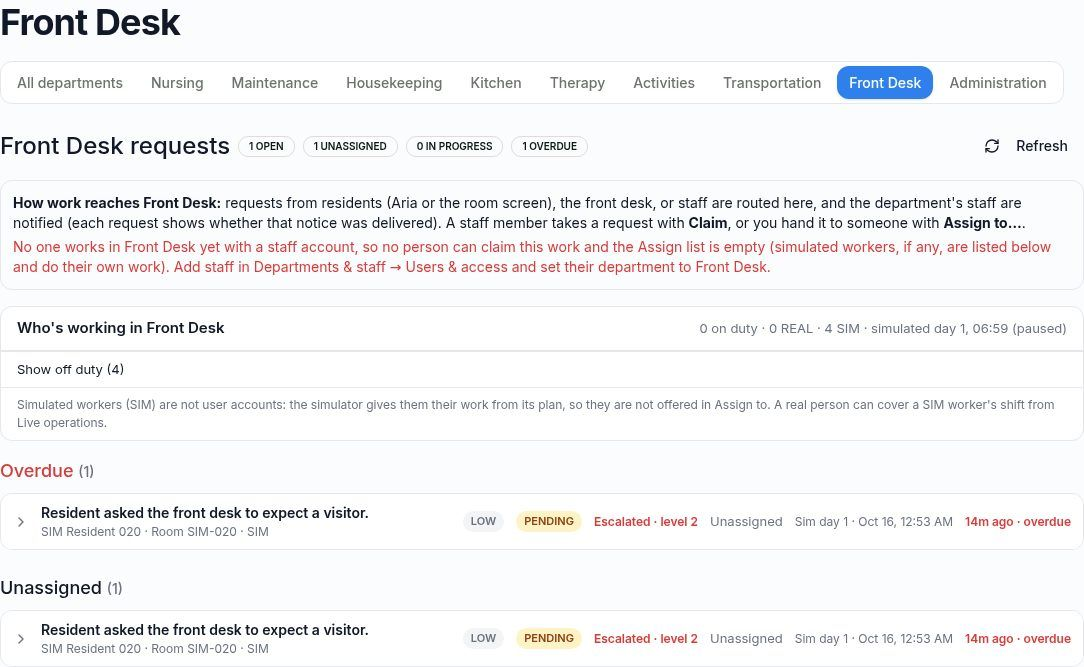
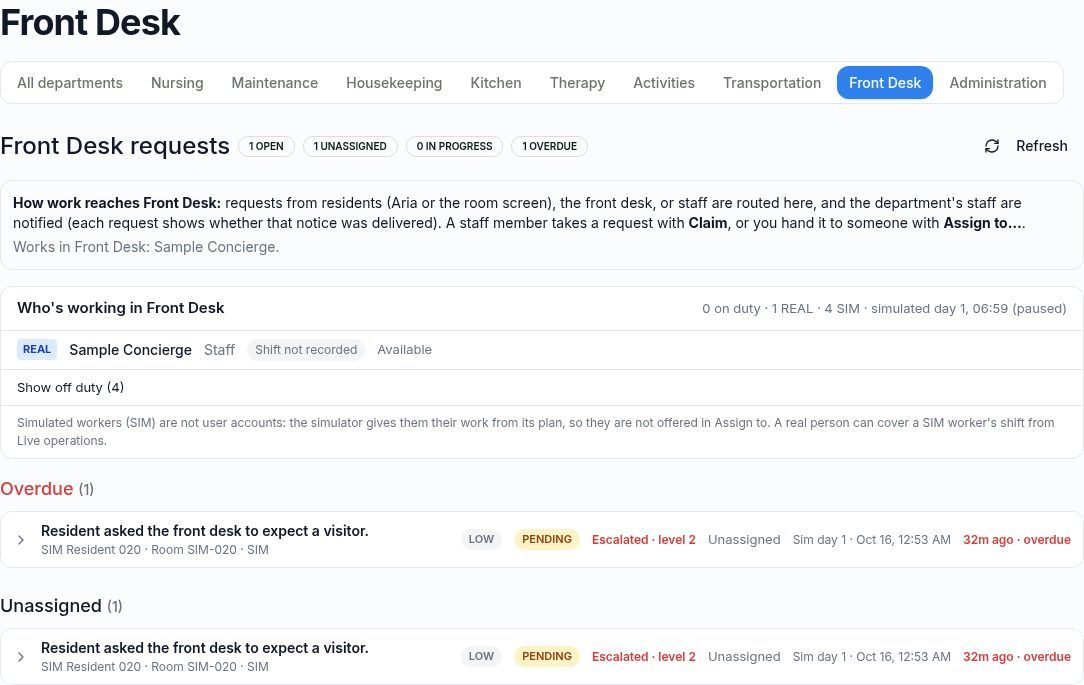
#162 public site: owner 2026-10-16 directions — helper framing, room life, community help
Reconciles #162 owner comments c6209371153 (video) and c6209415088 (Alexa+
benchmark, building-native differentiation) into the same task:

- Home hero: "Aria — your personal helper. A room that hears you and can
  help you." with the existing resident film featured, labelled
  "Illustrative film · generated scenes, not product footage" (no new film
  generated; artificial motion is never presented as product proof).
- Home order: everyday room life (voice, lights, TV, climate, blinds, low
  vision) -> community help (staff help, one-press, departments) -> platform
  proof (request -> department -> owner -> update -> receipt) -> staff
  screens -> receipts -> honest status. Every tile shows its registry status;
  nothing is labelled to match a consumer-assistant benchmark.
- Department screens recaptured with one sample staff account per
  department (scratch DB), so they show real roster rows instead of the
  "no one works here" warning; uniform 4:3 journey frames; residents page
  staff section shows two current screens.
- Test: owner message order and tile statuses (landingPage.test.jsx).

diff --git a/frontend/src/pages/Landing.jsx b/frontend/src/pages/Landing.jsx
@@ -1,20 +1,25 @@
 import React from "react";
 import { Link } from "react-router-dom";
 import { CAPABILITIES_BY_ID } from "../lib/capabilities";
-import { SCREENS } from "../lib/capabilities/visuals";
 import CapabilityPanel from "../components/capabilities/CapabilityPanel";
 import useCapabilityPanel from "../components/capabilities/useCapabilityPanel";
-import ExperienceVideoLibrary from "../components/landing/ExperienceVideoLibrary";
+import { ExperienceVideo } from "../components/landing/ExperienceVideoLibrary";
+import { EXPERIENCE_VIDEOS } from "../lib/experienceVideos";
+import CapabilityTiles from "../components/public/CapabilityTiles";
 import LandingStatus from "../components/landing/LandingStatus";
 import LandingPaths from "../components/landing/LandingPaths";
 import PublicPage, { PublicSection } from "../components/public/PublicPage";
-import PublicVisual from "../components/public/PublicVisual";
 import RequestJourney from "../components/public/RequestJourney";
 import StaffShowcase from "../components/public/StaffShowcase";
 
-// Public home (#162). In order: what CAOSCare is, the request journey, what
-// staff see, why receipts matter, what works today, where to go next. Every
-// picture says whose data it is; every status comes from lib/capabilities/status.js.
+// Public home (#162; owner 2026-10-16 c6209415088). In order: Aria, your personal
+// helper; everyday room life; community help; the platform proof (request ->
+// department -> owner -> update -> receipt); what staff see; why receipts; what
+// works today. Convenience first, then the leap: Aria is connected to the
+// community's operating system. Every status comes from lib/capabilities/status.js,
+// never from a consumer-assistant benchmark.
+const EVERYDAY = ["voice", "lighting", "tv", "climate", "blinds", "low_vision"];
+const COMMUNITY = ["help", "one_press", "nursing", "maintenance", "housekeeping", "dining", "transportation", "activities", "front_desk"];
 const PROOF = [
   ["Who asked, in their words", "The request keeps the resident's own words, room and time."],
   ["Who owns it, and since when", "Each claim, start and finish is stamped with the person and the minute."],
@@ -30,14 +35,13 @@ export default function Landing() {
           <header className="px-4 pb-16 pt-12 sm:px-6 lg:px-8 lg:pt-16">
             <div className="mx-auto grid max-w-7xl grid-cols-1 items-center gap-10 lg:grid-cols-12">
               <div className="min-w-0 lg:col-span-5">
-                <p className="text-[13px] font-semibold uppercase tracking-[0.14em] text-[#2F80ED]">Resident support and care coordination</p>
-                <h1 className="mt-3 text-[34px] font-bold leading-[1.1] tracking-tight sm:text-[46px]">
-                  Residents talk to Aria. Staff see the work. Every step is on record.
-                </h1>
+                <p className="text-[13px] font-semibold uppercase tracking-[0.14em] text-[#2F80ED]">CAOSCare for senior living</p>
+                <h1 className="mt-3 text-[38px] font-bold leading-[1.08] tracking-tight sm:text-[50px]">Aria — your personal helper.</h1>
+                <p className="mt-4 text-[22px] font-medium leading-snug text-[#111827]">A room that hears you and can help you.</p>
                 <p className="mt-5 text-[18px] leading-relaxed text-[#374151]">
-                  CAOSCare is the operating system for a senior-living community. A resident says "Hey Aria" from
-                  their chair; the request reaches the right department with who owns it and how long it has waited,
-                  and the resident hears its real status.
+                  Like a good room voice assistant, Aria answers and helps with the room. Unlike one, she is connected
+                  to the community's operating system: ask for help and it reaches the right department, someone owns it,
+                  you hear its real status, and every step leaves a receipt.
                 </p>
                 <div className="mt-8 flex flex-wrap gap-3">
                   <a href="#how" data-testid="hero-how"
@@ -51,12 +55,23 @@ export default function Landing() {
                 </p>
                 <p className="mt-4 text-[14px] text-[#6B7280]">In pilot · assistive and staff-supervised, not a medical device or emergency service.</p>
               </div>
-              <PublicVisual className="lg:col-span-7" eager visual={SCREENS.workspace}
-                caption="My CAOSCare Workspace · simulated 75-resident community, synthetic residents and staff" />
+              {EXPERIENCE_VIDEOS[0] && (
+                <div className="min-w-0 lg:col-span-7" data-testid="hero-video"><ExperienceVideo video={EXPERIENCE_VIDEOS[0]} featured /></div>
+              )}
             </div>
           </header>
 
-          <RequestJourney />
+          <PublicSection id="room" tone="gray" eyebrow="Everyday room life" title="The convenience you'd expect from a room voice assistant"
+            lead="Talk naturally, run the room, read it easily. Each item shows how far it has really been tested today; open one for its limits.">
+            <CapabilityTiles ids={EVERYDAY} onOpen={panel.open} testid="tiles-room" />
+          </PublicSection>
+
+          <PublicSection id="community-help" eyebrow="Community help" title="Then the part no consumer assistant can do"
+            lead="Aria knows the community's own departments. A request goes to the people who can actually do it.">
+            <CapabilityTiles ids={COMMUNITY} onOpen={panel.open} testid="tiles-community" />
+          </PublicSection>
+
+          <RequestJourney eyebrow="Platform proof" title="Aria is connected to the community's operating system." />
 
           <PublicSection id="staff" eyebrow="What staff see" title="The work, the owner and the clock, in one place."
             lead="Staff work in their department's view of the same records Aria uses. Leaders see what needs attention across the community.">
@@ -76,7 +91,6 @@ export default function Landing() {
           </PublicSection>
 
           <LandingStatus onOpen={panel.open} />
-          <ExperienceVideoLibrary />
           <LandingPaths authedDest={authedDest} authedLabel={authedLabel} />
           <CapabilityPanel capability={panel.capability} open={panel.isOpen} onClose={panel.close}
             onCloseAutoFocus={panel.onCloseAutoFocus} />

diff --git a/frontend/src/lib/capabilities/visuals.js b/frontend/src/lib/capabilities/visuals.js
@@ -25,9 +25,9 @@ export const SCREENS = {
   overview: screen("operations-overview", 1084, 900, "The Operations overview: what needs attention now, who owns it and how long it has waited"),
   nursing: screen("nursing", 1084, 900, "The Nursing department: requests by state, who is on duty, and overdue work"),
   maintenance: screen("maintenance", 1084, 900, "The Maintenance department: work orders, who is on call, and overdue requests"),
-  housekeeping: screen("housekeeping", 1084, 647, "The Housekeeping department: requests and who is working"),
-  kitchen: screen("kitchen", 1084, 652, "The Kitchen department: who is working, and a closed meal-tray request"),
-  transportation: screen("transportation", 1084, 890, "The Transportation department: daily operations, rides and who is working"),
+  housekeeping: screen("housekeeping", 1084, 645, "The Housekeeping department: requests and who is working"),
+  kitchen: screen("kitchen", 1084, 671, "The Kitchen department: who is working, and a closed meal-tray request"),
+  transportation: screen("transportation", 1084, 900, "The Transportation department: daily operations, rides and who is working"),
   schedule: screen("activity-schedule", 1084, 643, "The activity schedule that feeds the room screen and Aria"),
   reports: screen("operations-reports", 1084, 900, "Operations reports: the daily exceptions list with owner, age and reason"),
   activityLog: screen("activity-log", 1084, 900, "The activity log: every recorded action with who, what, where and the result"),
@@ -35,8 +35,8 @@ export const SCREENS = {
   escalation: screen("escalation", 1084, 569, "Escalation settings: when an unanswered alert goes to level 2 and level 3"),
   pendants: screen("pendants", 1084, 540, "The pendant list: resident, frequency, signal, battery and last press"),
   routing: screen("routing", 1084, 900, "Routing exceptions: requests whose department notification did not go through, with Re-send"),
-  frontDesk: screen("front-desk", 1084, 667, "The Front Desk department queue"),
-  therapy: screen("therapy", 1084, 641, "Therapy appointments: open, unassigned and upcoming visits"),
+  frontDesk: screen("front-desk", 1084, 685, "The Front Desk department queue"),
+  therapy: screen("therapy", 1084, 575, "Therapy appointments: open, unassigned and upcoming visits"),
 };
 
 export const ILLUSTRATIONS = {

diff --git a/frontend/src/pages/__tests__/landingPage.test.jsx b/frontend/src/pages/__tests__/landingPage.test.jsx
@@ -8,7 +8,7 @@ jest.mock("react-router-dom", () => ({
 jest.mock("../../lib/auth", () => ({ useAuth: () => ({ user: null }) }));
 jest.mock("../../components/capabilities/CapabilityPanel", () => ({ capability }) => (
   capability ? <div data-testid="panel">{capability.name}</div> : null));
-jest.mock("../../components/landing/ExperienceVideoLibrary", () => () => null);
+jest.mock("../../components/landing/ExperienceVideoLibrary", () => ({ __esModule: true, default: () => null, ExperienceVideo: ({ video }) => <div data-testid="video">{video.title}</div> }));
 
 import Landing from "../Landing";
 import { ALL_CAPABILITIES } from "../../lib/capabilities";
@@ -50,5 +50,20 @@ test("status board lists every public capability under its registry status and o
   }
   await act(async () => host.querySelector("[data-testid=status-voice]").click());
   expect(host.querySelector("[data-testid=panel]").textContent).toBe("Talk to Aria");
+  await done();
+});
+
+test("owner message order: Aria the helper, everyday room life, community help, then the platform proof", async () => {
+  // #162 owner direction 2026-10-16 (c6209415088, c6209371153)
+  const { host, done } = await render();
+  expect(host.querySelector("h1").textContent).toBe("Aria — your personal helper.");
+  expect(host.querySelector("[data-testid=hero-video]").textContent).toMatch("Aria — your personal helper");
+  const order = ["tiles-room", "tiles-community", "request-journey", "staff-showcase"]
+    .map((id) => [...host.querySelectorAll("[data-testid]")].findIndex((e) => e.dataset.testid === id));
+  expect(order.every((v, i) => v >= 0 && (i === 0 || v > order[i - 1]))).toBe(true);
+  // every tile shows its registry status, never a benchmark claim
+  for (const tile of host.querySelectorAll("[data-testid^=tile-]")) {
+    expect(tile.querySelector("[data-status]").dataset.status).toBe(statusOf(tile.dataset.testid.slice(5)));
+  }
   await done();
 });

diff --git a/frontend/src/components/public/PublicVisual.jsx b/frontend/src/components/public/PublicVisual.jsx
@@ -4,12 +4,13 @@ import { VisualImage, VISUAL_TAG } from "../capabilities/CapabilityVisuals";
 // One framed public picture from lib/capabilities/visuals.js, always saying
 // what it is (real screen with sample data, illustration or concept) and,
 // optionally, where the data came from.
-export default function PublicVisual({ visual, caption, className = "", eager = false }) {
+export default function PublicVisual({ visual, caption, className = "", eager = false, framed = false }) {
   return (
     <figure className={`m-0 min-w-0 ${className}`}>
-      <div className="overflow-hidden rounded-xl border border-[#E5E7EB] bg-white shadow-[0_12px_40px_-12px_rgba(17,24,39,0.22)]">
+      <div className={`overflow-hidden rounded-xl border border-[#E5E7EB] bg-white shadow-[0_12px_40px_-12px_rgba(17,24,39,0.22)] ${framed ? "aspect-[4/3]" : ""}`}>
         <img src={visual.src} alt={visual.alt} width={visual.width} height={visual.height}
-             loading={eager ? "eager" : "lazy"} decoding="async" className="block h-auto w-full" />
+             loading={eager ? "eager" : "lazy"} decoding="async"
+             className={framed ? "block h-full w-full object-cover object-left-top" : "block h-auto w-full"} />
       </div>
       <figcaption className="mt-2 text-[13px] leading-snug text-[#6B7280]">
         <span className="font-semibold text-[#4B5563]" data-visual-kind={visual.kind}>{VISUAL_TAG[visual.kind]}</span>

diff --git a/frontend/src/components/public/CapabilityTiles.jsx b/frontend/src/components/public/CapabilityTiles.jsx
@@ -1,0 +1,27 @@
+import React from "react";
+import StatusPill from "../capabilities/StatusPill";
+import { CAPABILITIES_BY_ID } from "../../lib/capabilities";
+
+// A compact, status-honest list of capabilities by id (status from the one
+// registry). Each tile opens the capability's panel with its limits.
+export default function CapabilityTiles({ ids, onOpen, testid }) {
+  return (
+    <ul className="grid grid-cols-1 gap-3 sm:grid-cols-2 lg:grid-cols-3" data-testid={testid}>
+      {ids.map((id) => {
+        const c = CAPABILITIES_BY_ID[id];
+        return (
+          <li key={id} className="min-w-0">
+            <button type="button" onClick={() => onOpen(id)} aria-haspopup="dialog" data-testid={`tile-${id}`}
+                    className="flex h-full w-full flex-col rounded-xl border border-[#E5E7EB] bg-white p-4 text-left hover:border-[#111827] focus-visible:outline focus-visible:outline-2 focus-visible:outline-offset-2 focus-visible:outline-[#2F80ED]">
+              <span className="flex flex-wrap items-center gap-2">
+                <span className="text-[17px] font-semibold text-[#111827]">{c.name}</span>
+                <StatusPill status={c.status} />
+              </span>
+              <span className="mt-1 text-[15px] leading-relaxed text-[#4B5563]">{c.summary}</span>
+            </button>
+          </li>
+        );
+      })}
+    </ul>
+  );
+}

diff --git a/frontend/src/lib/experienceVideos.js b/frontend/src/lib/experienceVideos.js
@@ -10,12 +10,14 @@ export const EXPERIENCE_VIDEOS = [
   {
     id: "resident-experience-01",
     number: "001",
-    title: "The room is Aria",
+    // Owner 2026-10-16 (#162 c6209371153): "Aria — your personal helper" framing. These are
+    // generated scenes with visibly artificial motion in places: never product proof.
+    title: "Aria — your personal helper",
     summary:
-      "A resident's day, spoken naturally to the room — no screen to find, no device to learn.",
+      "A room that hears you and can help you: speak naturally, with no screen to find and no device to learn.",
     src: "/media/caoscare-resident-experience-01.mp4",
     poster: "/media/caoscare-resident-experience-01-poster.jpg",
     duration: "0:30",
-    kind: "Illustrative scenes",
+    kind: "Illustrative film · generated scenes, not product footage",
   },
 ];

diff --git a/frontend/src/components/public/StaffShowcase.jsx b/frontend/src/components/public/StaffShowcase.jsx
@@ -13,7 +13,7 @@ const SHOTS = [
 ];
 
 export default function StaffShowcase({ compact = false, onOpen }) {
-  const shots = compact ? SHOTS.slice(0, 1) : SHOTS;
+  const shots = compact ? [SHOTS[0], SHOTS[2]] : SHOTS;
   return (
     <div data-testid="staff-showcase">
       <div className="mb-6 flex flex-wrap items-center gap-3 text-[14px] text-[#4B5563]">
@@ -25,7 +25,7 @@ export default function StaffShowcase({ compact = false, onOpen }) {
           </button>
         )}
       </div>
-      <ul className={`grid grid-cols-1 gap-8 ${compact ? "" : "lg:grid-cols-3"}`}>
+      <ul className={`grid grid-cols-1 gap-8 ${compact ? "md:grid-cols-2" : "lg:grid-cols-3"}`}>
         {shots.map((s) => (
           <li key={s.title} className="min-w-0">
             <h3 className="text-[19px] font-semibold text-[#111827]">{s.title}</h3>

diff --git a/frontend/src/components/public/RequestJourney.jsx b/frontend/src/components/public/RequestJourney.jsx
@@ -35,7 +35,7 @@ export default function RequestJourney({ id = "how", eyebrow = "How it works", t
               </div>
               <h3 className="mt-3 text-[20px] font-semibold text-[#111827]">{s.title}</h3>
               <p className="mt-2 flex-1 text-[16px] leading-relaxed text-[#4B5563]">{s.body}</p>
-              <PublicVisual className="mt-5" visual={s.visual} caption={s.caption} />
+              <PublicVisual className="mt-5" framed visual={s.visual} caption={s.caption} />
             </li>
           ))}
         </ol>
